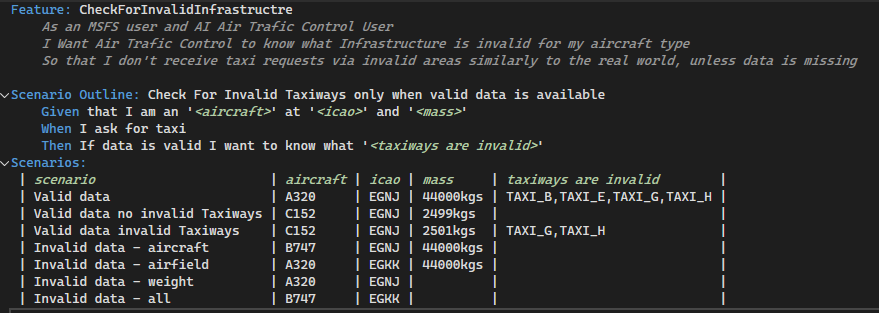
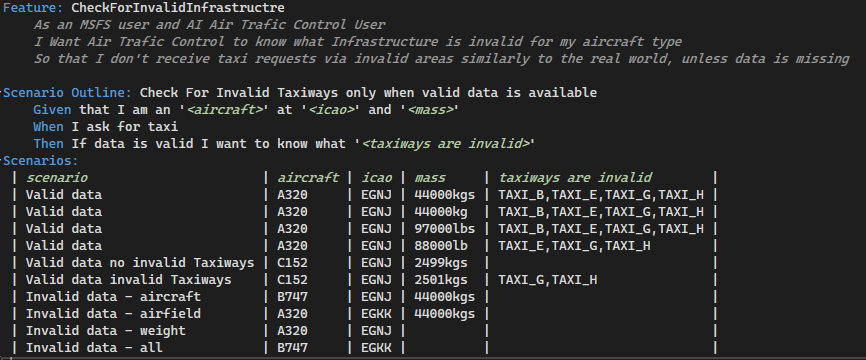
Equation Optimised and tests with kgs, kg, lbs and lb

Changed region(s): [[0.0, 0.0, 1.0, 1.0], [0.5612, 0.8914, 0.5924, 0.9201]]

diff --git a/DiggerFlight.PcnAcnCalculator/Calculation/AllowableLoadVersesAircraftWeight.cs b/DiggerFlight.PcnAcnCalculator/Calculation/AllowableLoadVersesAircraftWeight.cs
@@ -44,21 +44,20 @@ namespace DiggerFlight.PcnAcnCalculator.Calculation
             return true;
         }
 
-        public static double? LoadOrActualAcnFormula(double? aircraftMinWeightOrAcnMin,
-                                                     double? aircraftMaxWeightOrAcnMax,
-                                                     double? pcnOrmValue,
-                                                     double? acnMinOrmValueMin,
-                                                     double? acnMaxOrmValueMax,
-                                                     bool isAcnCalculation = false
+        public static double? LoadOrActualAcnFormula(double? equationMinValue,
+                                                     double? equationMaxValue,
+                                                     double? fractionValue,
+                                                     double? fractionMinValue,
+                                                     double? fractionMaxValue
                                                      )
         {
             try
             {
-                aircraftMinWeightOrAcnMin.Should().NotBeNull();
-                aircraftMaxWeightOrAcnMax.Should().NotBeNull();
-                pcnOrmValue.Should().NotBeNull();
-                acnMinOrmValueMin.Should().NotBeNull();
-                acnMaxOrmValueMax.Should().NotBeNull();
+                equationMinValue.Should().NotBeNull();
+                equationMaxValue.Should().NotBeNull();
+                fractionValue.Should().NotBeNull();
+                fractionMinValue.Should().NotBeNull();
+                fractionMaxValue.Should().NotBeNull();
             }
             catch
             {
@@ -66,11 +65,11 @@ namespace DiggerFlight.PcnAcnCalculator.Calculation
             }
 
             //Defaults won't be triggered just included to help analyse equation but need to ensure positive values.
-            aircraftMinWeightOrAcnMin = Math.Abs(aircraftMinWeightOrAcnMin.GetValueOrDefault(1.0));
-            aircraftMaxWeightOrAcnMax = Math.Abs(aircraftMaxWeightOrAcnMax.GetValueOrDefault(4.0));
-            pcnOrmValue = Math.Abs(pcnOrmValue.GetValueOrDefault(2.0));
-            acnMinOrmValueMin = Math.Abs(acnMinOrmValueMin.GetValueOrDefault(1.0));
-            acnMaxOrmValueMax = Math.Abs(acnMaxOrmValueMax.GetValueOrDefault(3.0));
+            equationMinValue = Math.Abs(equationMinValue.GetValueOrDefault(1.0));
+            equationMaxValue = Math.Abs(equationMaxValue.GetValueOrDefault(4.0));
+            fractionValue = Math.Abs(fractionValue.GetValueOrDefault(2.0));
+            fractionMinValue = Math.Abs(fractionMinValue.GetValueOrDefault(1.0));
+            fractionMaxValue = Math.Abs(fractionMaxValue.GetValueOrDefault(3.0));
             //Load = 2.5
             //Log.Information("aircraftMinWeightOrAcnMin: " + aircraftMinWeightOrAcnMin);
             //Log.Information("aircraftMaxWeightOrAcnMax: " + aircraftMaxWeightOrAcnMax);
@@ -78,14 +77,9 @@ namespace DiggerFlight.PcnAcnCalculator.Calculation
             //Log.Information("acnMinOrmValueMin: " + acnMinOrmValueMin);
             //Log.Information("acnMaxOrmValueMax: " + acnMaxOrmValueMax);
 
-            var fraction = (pcnOrmValue - acnMinOrmValueMin) / (acnMaxOrmValueMax - acnMinOrmValueMin);
-            var loadOrActualAcnFormula = aircraftMinWeightOrAcnMin + ((aircraftMaxWeightOrAcnMax - aircraftMinWeightOrAcnMin) * fraction);
-            //Sub optimal to be properly fixed ASAP
-            if (isAcnCalculation)
-            {
-                fraction = (pcnOrmValue - aircraftMinWeightOrAcnMin) / (aircraftMaxWeightOrAcnMax - aircraftMinWeightOrAcnMin);
-                loadOrActualAcnFormula = acnMinOrmValueMin + ((acnMaxOrmValueMax - acnMinOrmValueMin) * fraction);
-            }
+            var fraction = (fractionValue - fractionMinValue) / (fractionMaxValue - fractionMinValue);
+            var loadOrActualAcnFormula = equationMinValue + ((equationMaxValue - equationMinValue) * fraction);
+
             //Log.Information("loadOrActualAcnFormula: " + loadOrActualAcnFormula);
             return loadOrActualAcnFormula;
         }

diff --git a/DiggerFlight.PcnAcnCalculator/Calculation/CalculationOfActualAircraftAcn.cs b/DiggerFlight.PcnAcnCalculator/Calculation/CalculationOfActualAircraftAcn.cs
@@ -64,12 +64,11 @@
                 double? aircraftMaxWeight = aircraftacn.MaxWeightValues.WeightKn;
                 double? aircraftMinWeight = aircraftacn.MinWeightValues.WeightKn;
 
-                var actualAircraftAcn = AllowableLoadVersesAircraftWeight.LoadOrActualAcnFormula(aircraftMinWeight,
-                                                                                                 aircraftMaxWeight,
-                                                                                                 actualAircraftWeighInKn,
-                                                                                                 acnMinValue,
+                var actualAircraftAcn = AllowableLoadVersesAircraftWeight.LoadOrActualAcnFormula(acnMinValue,
                                                                                                  acnMaxValue, 
-                                                                                                 true
+                                                                                                 actualAircraftWeighInKn,
+                                                                                                 aircraftMinWeight,
+                                                                                                 aircraftMaxWeight
                                                                                                  );
                 return actualAircraftAcn;
             }

diff --git a/DiggerFlight.PcnAcnCalculator.Test/CheckForInvalidInfrastructre.feature.cs b/DiggerFlight.PcnAcnCalculator.Test/CheckForInvalidInfrastructre.feature.cs
@@ -87,6 +87,9 @@ namespace DiggerFlight.PcnAcnCalculator.Test
         [Xunit.TraitAttribute("FeatureTitle", "CheckForInvalidInfrastructre")]
         [Xunit.TraitAttribute("Description", "Check For Invalid Taxiways only when valid data is available")]
         [Xunit.InlineDataAttribute("Valid data", "A320", "EGNJ", "44000kgs", "TAXI_B,TAXI_E,TAXI_G,TAXI_H", new string[0])]
+        [Xunit.InlineDataAttribute("Valid data", "A320", "EGNJ", "44000kg", "TAXI_B,TAXI_E,TAXI_G,TAXI_H", new string[0])]
+        [Xunit.InlineDataAttribute("Valid data", "A320", "EGNJ", "97000lbs", "TAXI_B,TAXI_E,TAXI_G,TAXI_H", new string[0])]
+        [Xunit.InlineDataAttribute("Valid data", "A320", "EGNJ", "88000lb", "TAXI_E,TAXI_G,TAXI_H", new string[0])]
         [Xunit.InlineDataAttribute("Valid data no invalid Taxiways", "C152", "EGNJ", "2499kgs", "", new string[0])]
         [Xunit.InlineDataAttribute("Valid data invalid Taxiways", "C152", "EGNJ", "2501kgs", "TAXI_G,TAXI_H", new string[0])]
         [Xunit.InlineDataAttribute("Invalid data - aircraft", "B747", "EGNJ", "44000kgs", "", new string[0])]

diff --git a/DiggerFlight.PcnAcnCalculator/Calculation/UnitsConverter.cs b/DiggerFlight.PcnAcnCalculator/Calculation/UnitsConverter.cs
@@ -8,14 +8,14 @@
         {
             var weightInKn = 0.0;
             if (string.IsNullOrWhiteSpace(mass)) return weightInKn;
-            if (mass.ToUpper().Contains("LBS"))
+            if (mass.ToUpper().Contains("LB"))
             {
-                mass = mass.ToUpper().Replace("LBS", "").Trim();
+                mass = mass.ToUpper().Replace("LBS", "").Replace("LB", "").Trim();
                 weightInKn = GetKiloNewtons(GetKilogrames(Convert.ToDouble(mass)));
             }
-            else if ((mass.ToUpper().Contains("KGS")))
+            else if ((mass.ToUpper().Contains("KG")))
             {
-                mass = mass.ToUpper().Replace("KGS", "").Trim();
+                mass = mass.ToUpper().Replace("KGS", "").Replace("KG", "").Trim();
                 weightInKn = GetKiloNewtons(Convert.ToDouble(mass));
             }
             else

diff --git a/README.md b/README.md
@@ -6,7 +6,7 @@ The ACN data was sourced with thanks from https://skybrary.aero/sites/default/fi
 
 Only a couple of aircraft have been added for the purposes of testing.
 
-Though the tests only cover kgs there is an untested lbs to kgs unit conversion to support our non SI unit countries.
+Tests now cover kg/kgs and lb/lbs for the kgs unit conversion to support our non SI unit countries.
 
 The purpose of this project demostration is:
 ![Features](FeatureFile.PNG)
